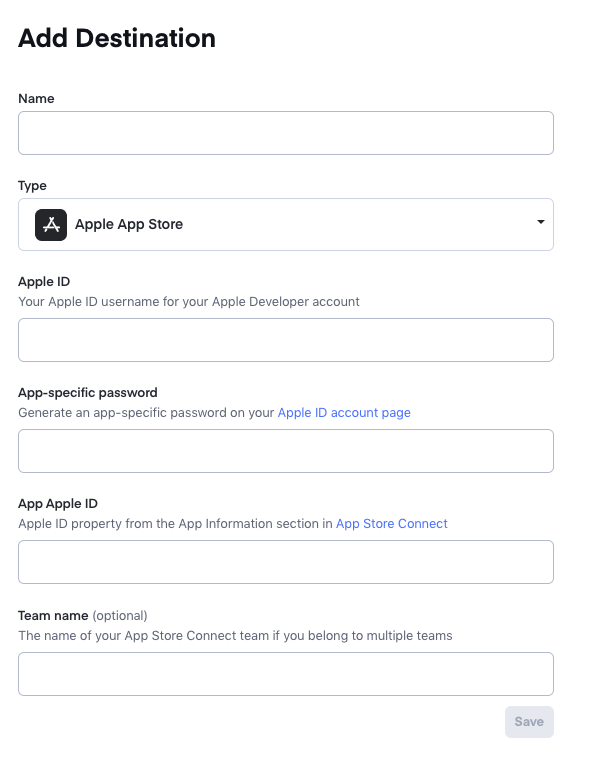
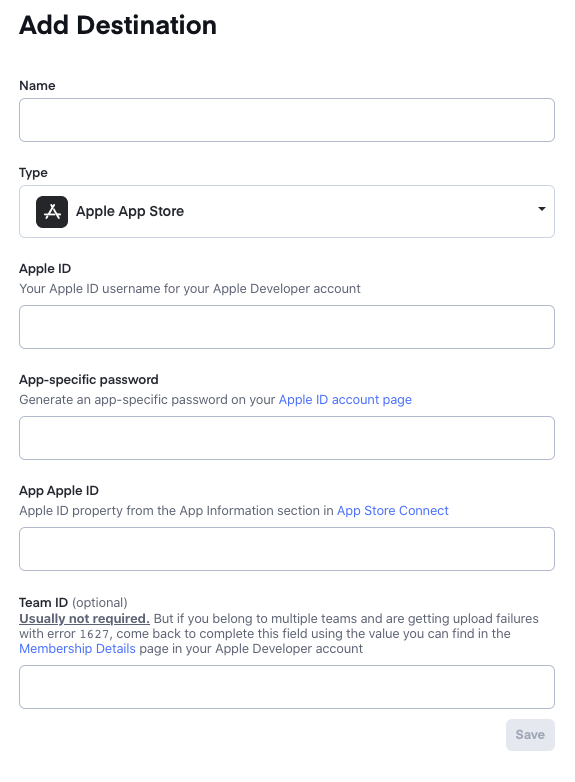
Updates for AppFlow Apple Distribution Credentials * updated image to reflect UI changes * updated text around team id (from team name) * added link to apple site to find team name

diff --git a/src/pages/appflow/destinations/apple.md b/src/pages/appflow/destinations/apple.md
@@ -31,4 +31,7 @@ For this destination you will need the following:
 
     ![/docs/assets/img/appflow/apple-apple-id.png](/docs/assets/img/appflow/apple-apple-id.png)
 
-- (Optional) Your team name for your Apple ID (if your account is in more than one team)
+- **(Optional) Team ID for the App from App Store Connect**
+> Usually not required. But if you belong to multiple teams and are getting upload failures with error `1627`, fill out this field.
+    - You can find in the <a href="https://developer.apple.com/account/#/membership" target="_blank">Membership Details</a> page in your Apple Developer account Your team name for your Apple ID (if your account is in more than one team.)
+    - In most cases the correct team will be used automatically without this field being specified, but rarely it cannot be determined and needs to be set.
